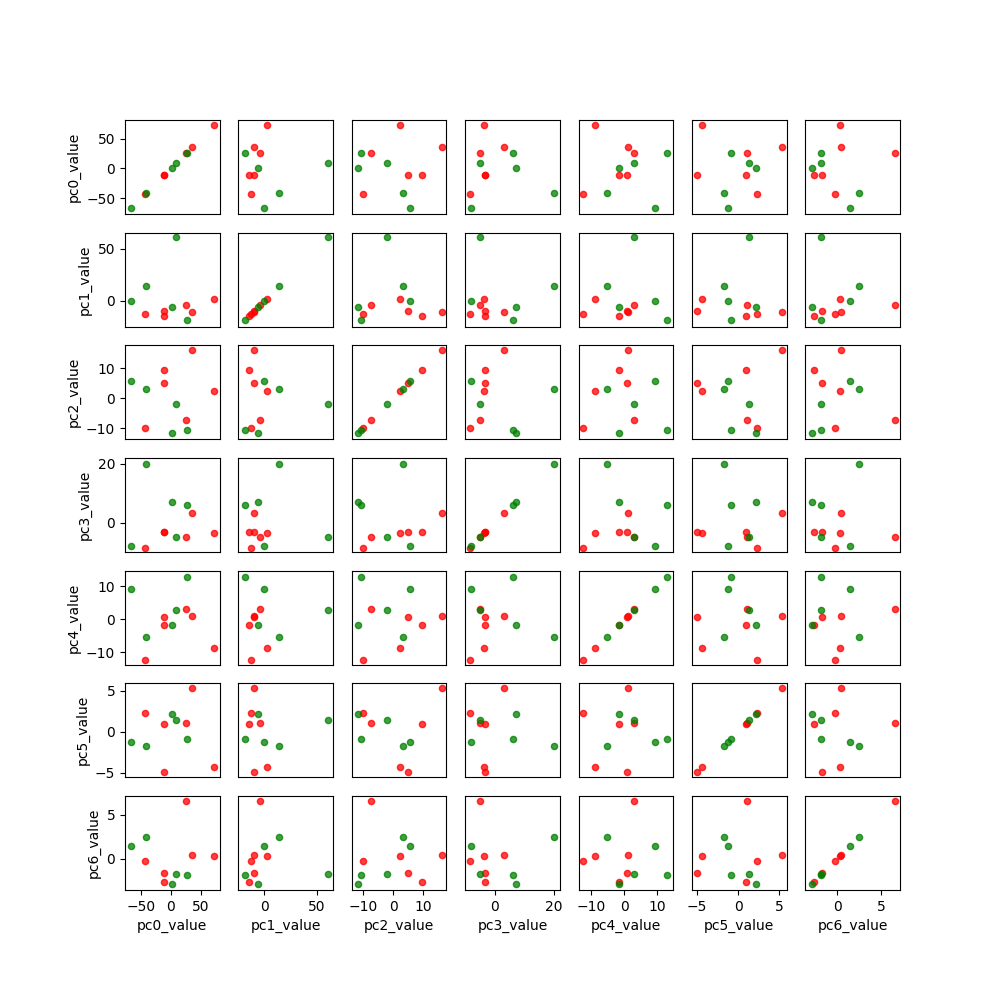
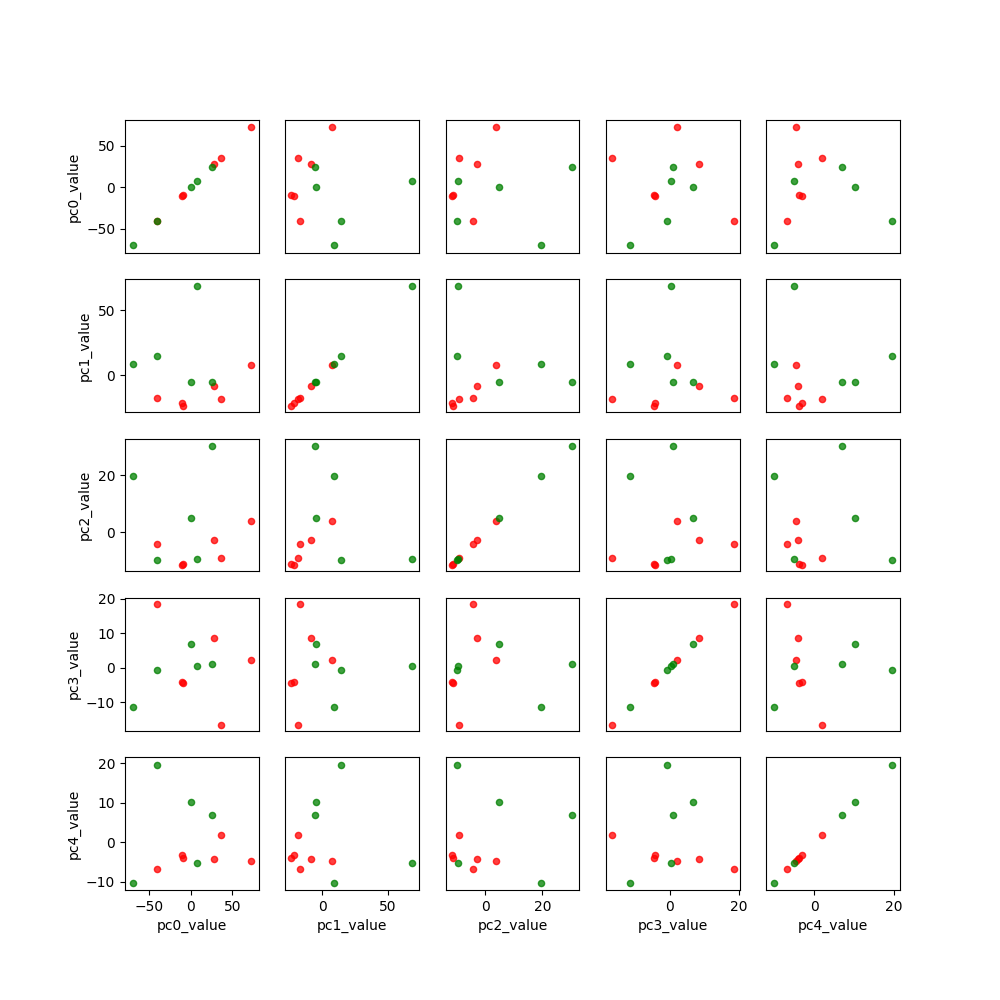
Combining clinical features

diff --git a/features/centroid.py b/features/centroid.py
@@ -12,30 +12,35 @@ fs = 4000
 # Calculate the centroid for each PS recording
 # Average all the centroid results across the ps recordings
 def get_features(patient_dir):
-	ps_recordings = [file for file in os.listdir("%s/PS" % patient_dir) if file.endswith(".wav")]
-	ps_features = []
-	headers = []
-	for recording in ps_recordings:
-		hs, features = _get_features("%s/PS/%s" % (patient_dir, recording))
-		headers = hs
-		ps_features.append(features)
-	average_ps_features = np.mean(ps_features, axis=0)
-	return headers, average_ps_features.tolist()
+	h1, f1 = get_features_for_type(patient_dir, 'PS')
+	h2, f2 = get_features_for_type(patient_dir, 'BS')
+	return h1 + h2, f1 + f2
 
-def _get_features(audio_path):
+def get_features_for_type(patient_dir, recording_type):
+	recordings = [file for file in os.listdir("%s/%s" % (patient_dir, recording_type)) if file.endswith(".wav")]
+	features = []
+	headers = []
+	for recording in recordings:
+		hs, features = _get_features("%s/%s/%s" % (patient_dir, recording_type, recording), recording_type)
+		headers = hs
+		features.append(features)
+	average_features = np.mean(features, axis=0)
+	return headers, average_features.tolist()
+
+def _get_features(audio_path, recording_type):
 	spectrum = ess.Spectrum(size=N)
 	window = ess.Windowing(size=M, type='hann')
 	centroid = ess.Centroid(range=1)
 	x = ess.MonoLoader(filename=audio_path, sampleRate = fs)()
 	spectrumcentroid = []
 
-	for frame in ess.FrameGenerator(x, frameSize=M, hopSize=H, startFromZero=True):          
+	for frame in ess.FrameGenerator(x, frameSize=M, hopSize=H, startFromZero=True):
 	  mX = spectrum(window(frame))
 	  centroidvalues = centroid(mX)
-	  spectrumcentroid.append(centroidvalues)            
+	  spectrumcentroid.append(centroidvalues)
 	spectrumcentroid = np.array(spectrumcentroid)
 
-	headers = ['mean_centroid']
+	headers = ['%s_mean_centroid' % recording_type]
 	features = [np.mean(spectrumcentroid)]
 	#[np.mean(centroid)]
 

diff --git a/features/mfcc.py b/features/mfcc.py
@@ -1,6 +1,8 @@
 import os
 import numpy as np
 import matplotlib.pyplot as plt
+import sys
+sys.path.append('../essentia/src/python/essentia')
 import essentia.standard as ess
 
 M = 1024
@@ -13,15 +15,25 @@ fs = 4000
 def get_features(patient_dir):
 	ps_recordings = [file for file in os.listdir("%s/PS" % patient_dir) if file.endswith(".wav")]
 	ps_features = []
-	headers = []
+	ps_headers = []
 	for recording in ps_recordings:
-		hs, features = _get_features("%s/PS/%s" % (patient_dir, recording))
-		headers = hs
+		hs, features = _get_features("%s/PS/%s" % (patient_dir, recording), "PS")
+		ps_headers = hs
 		ps_features.append(features)
-	average_ps_features = np.mean(ps_features, axis=0)
-	return headers, average_ps_features.tolist()
+	average_ps_features = np.mean(ps_features, axis=0).tolist()
 
-def _get_features(audio_path):
+	bs_recordings = [file for file in os.listdir("%s/BS" % patient_dir) if file.endswith(".wav")]
+	bs_features = []
+	bs_headers = []
+	for recording in bs_recordings:
+		hs, features = _get_features("%s/BS/%s" % (patient_dir, recording), "BS")
+		bs_headers = hs
+		bs_features.append(features)
+	average_bs_features = np.mean(bs_features, axis=0).tolist()
+
+	return ps_headers + bs_headers, average_ps_features + average_bs_features
+
+def _get_features(audio_path, recording_type):
 	spectrum = ess.Spectrum(size=N)
 	window = ess.Windowing(size=M, type='hann')
 	mfcc = ess.MFCC(numberCoefficients = 12)
@@ -38,7 +50,7 @@ def _get_features(audio_path):
 	features = []
 	for i in range(0, 12):
 		coefficients = mfccs[:,i]
-		headers.append('mean_mfcc_%d' % i)
+		headers.append('%s_mean_mfcc_%d' % (recording_type, i))
 		features.append(np.mean(coefficients))
 
 	# plt.figure(1, figsize=(9.5, 7))

diff --git a/analysis/general_feature_analysis3.py b/analysis/general_feature_analysis3.py
@@ -10,7 +10,7 @@ from scipy.cluster.vq import vq, kmeans, whiten
 from sklearn.neighbors import KNeighborsClassifier
 
 ######THE FOLLOWING ARE DEFAULT SETTINGS FOR run_analysis()##########
-freq_features = ['mean_mfcc_0',
+audio_features = ['mean_mfcc_0',
                 'mean_mfcc_1',
                 'mean_mfcc_2',
                 'mean_mfcc_3',
@@ -22,6 +22,26 @@ freq_features = ['mean_mfcc_0',
                 'mean_mfcc_10',
                 'mean_mfcc_11',
                 'mean_centroid']
+
+clinical_features = [
+    'age',
+    'male',
+    'female',
+    'thorax_circ',
+    'smoking_packs',
+
+    # 'temp',
+    # 'bp_systolic',
+    # 'bp_diastolic',
+    # 'hr',
+    # 'rr',
+    # 'sp02',
+    # 'peak_flow',
+    # 'sob',
+    # 'wheezing'
+]
+
+freq_features = audio_features + clinical_features
 
 visual_sample = ['mean_mfcc_3',
                 'mean_mfcc_4',

diff --git a/run_analysis.py b/run_analysis.py
@@ -7,7 +7,7 @@ ga.run_analysis(file_in = 'features/features.csv',
                 path_out = 'analysis/',
                 class_id = 'lung_disease',
                 features = ga.freq_features,
-                n_comp_pca = 7,
-                k_neighbors = 3,
+                n_comp_pca = 5,
+                k_neighbors = 4,
                 visual_features = ga.visual_sample,
                 visual_file_1 = 'viz1.png')

diff --git a/run_features.py b/run_features.py
@@ -7,6 +7,7 @@ import stft
 import mfcc
 import centroid
 import metadata
+sys.path.append('./essentia/src/python/essentia')
 
 in_root = 'processed_data'
 audio_features_path = 'features/audio_features.csv'
